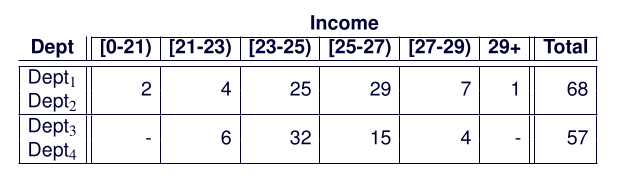
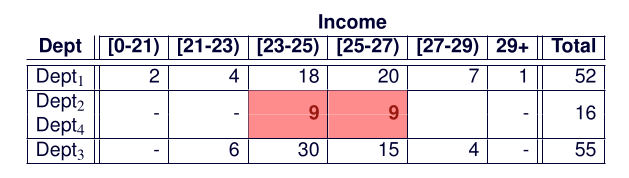
Univault 23-11-08 v1

Changed region(s): [[0.0306, 0.1966, 0.9791, 0.927], [0.4895, 0.0843, 0.6119, 0.1685]]

diff --git a/Privatezza e Protezione dei Dati.md b/Privatezza e Protezione dei Dati.md
@@ -935,7 +935,7 @@ Estimates must achieve a specified accuracy. Data that do not meet the accuracy 
 When macrodata tables are defined on the whole population, disclosure limitation procedures must be applied. Special rules define restrictions on the level of detail that can be provided in a table. These rules differ depending on the agency and the kind of table.
 
 An example of special rules.<br />
-Social Security Administration (SSA) rules prohibit publishing tables where the value of a cell is equal to a marginal total or would allow users to determine:
+**Social Security Administration** (**SSA**) rules prohibit publishing tables where the value of a cell is equal to a marginal total or would allow users to determine:
 - an individual’s age within a five-year interval;
 - earnings within a $ $1,000$ interval;
 - benefits within a $ $50$ interval.
@@ -974,7 +974,7 @@ Table containing information about employees by company and education level.
 
 ![[TableDisclosuresExample.png]]
 
-A cell with fewer than 5 respondents is defined as sensitive. Suppress one additional cell for each row/column with a sensitive cell suppressed.
+A cell with fewer than $5$ respondents is defined as sensitive. Suppress one additional cell for each row/column with a sensitive cell suppressed.
 
 ----------------------------------------------------------------
 
@@ -991,7 +991,7 @@ Combining _Dept$1$_ with _Dept$2$_ and _Dept$3$_ with _Dept$4$_ does offer the r
 
 ![[TableRestructuringExample3.png]]
 
-Combining _Dept$2$_ with _Dept$4$_ would still reveal that the income is within a 5K interval $[23K, 27K)$.
+Combining _Dept$2$_ with _Dept$4$_ would still reveal that the income is within a $5$K interval $[23K, 27K)$.
 
 ----------------------------------------------------------------
 
@@ -1003,9 +1003,9 @@ Even with complementary suppression it is difficult to guarantee adequate protec
 
 ### Complementary suppressions
 The selection of cells for complementary suppression is complicated. **Linear programming** techniques are used to automatically select cells for complementary suppression.<br />
-**Audit techniques** can be applied to evaluate the proposed suppression pattern to see if it provides the required protection.
+**[[Privatezza e Protezione dei Dati#Audit|Audit]] techniques** can be applied to evaluate the proposed suppression pattern to see if it provides the required protection.
 
-An example of cell suppression: Table without disclosures.<br />
+An example of cell suppression: table without disclosures.<br />
 Table containing information about employees by company and education level.
 
 ![[CellSuppressionExample1.png]]
@@ -1015,17 +1015,16 @@ A cell with fewer than 5 respondents is defined as sensitive.
 ![[CellSuppressionExample2.png]]
 
 Suppressing sensitive cells is not sufficient:<br />
-$35 = D1 + 10 + 10 + 14 \to D1 = 1$<br />
-$30 = D2 + 10 + 10 + 7 \to D2 = 3$<br />
-$50 = 15 + 20 + D4 + 12 \to D4 = 3$
-$35 = 12 + 14 + 7 + D6 \to D6 = 2$
-$20 = 15 + 1 + 3 + D3 \to D3 = 1$
-$25 = 3 + 10 + 10 + D5 \to D5 = 2$
+$35 = D1 + 10 + 10 + 14 \to D1 = 1$;<br />
+$30 = D2 + 10 + 10 + 7 \to D2 = 3$;<br />
+$50 = 15 + 20 + D4 + 12 \to D4 = 3$;<br />
+$35 = 12 + 14 + 7 + D6 \to D6 = 2$;<br />
+$20 = 15 + 1 + 3 + D3 \to D3 = 1$;<br />
+$25 = 3 + 10 + 10 + D5 \to D5 = 2$.
 
 ![[CellSuppressionExample3.png]]
 
-Suppress one additional cell for each row/column with a sensitive cell suppressed.<br />
-The table appears to offer protection to the sensitive cells but:
+Suppress one additional cell for each row/column with a sensitive cell suppressed. The table appears to offer protection to the sensitive cells but:
 $(15 + D1 + D2 + D3 ) + (20 + D4 + D5 + 15) - (D1 + D4 + 10 + 14) - (D2 + D5 + 10 + 7)$
 $= 20 + 55 - 35 - 30 \to D3 = 1$
 
@@ -1073,7 +1072,7 @@ Developed by the U.S. Census Bureau to provide protection of tables prepared fro
 
 Both approaches apply statistical disclosure limitation techniques to the microdata on which statistics are calculated. Statistics are protected by changing input data.
 
-For the $100$ percent microdata file, confidentiality edit applie **switching**:
+For the $100$ percent microdata file, confidentiality edit applied **switching**:
 1) take a sample of records from the microdata file;
 2) find a match for these records in some other geographic region, matching on a specified set of important attributes;
 3) swap all attributes on the matched records.
@@ -1086,8 +1085,8 @@ Records for the $20$ employees of company Alfa.
 ![[ConfidentialityEditExample.png]]
 
 1) take a sample of records from the microdata file (say a $10\%$ sample, $2$ tuples for company Alfa). Assume that records number $4$ and $17$ were selected as part of our $10\%$ sample;
-2) since we need tables by company and education level, we find a match in some other company on the other variables (race and salary, company totals for these variables remain unchanged):
-	- a match for record $4$ (Pete) is found in company Beta, the match is with Alonso, who has very high education;
+2) since we need tables by _Company_ and _Education_ level, we find a match in some other company on the other variables (_Race_ and _Salary_, company totals for these variables remain unchanged):
+	- a match for record $4$ (Pete) is found in company Beta. The match is with Alonso, who has very high education;
 	- Record $17$ (Mike) is matched with George in company Delta, who has medium education.
 3) we also assume that part of the randomly selected $10\%$ sample from other companies match records in company Alfa:
 	- one record from company Delta (June with high education) matches with Virginia (record $12$);
